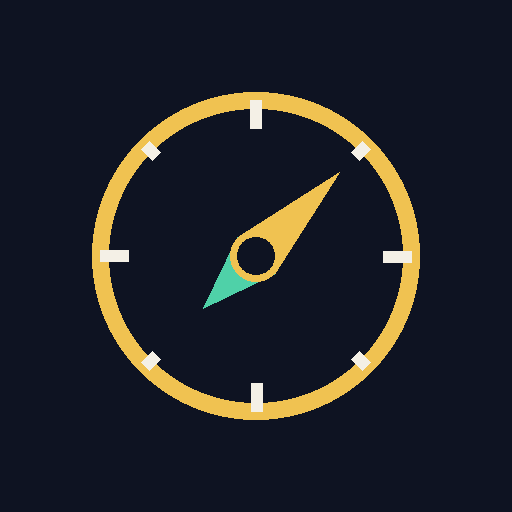
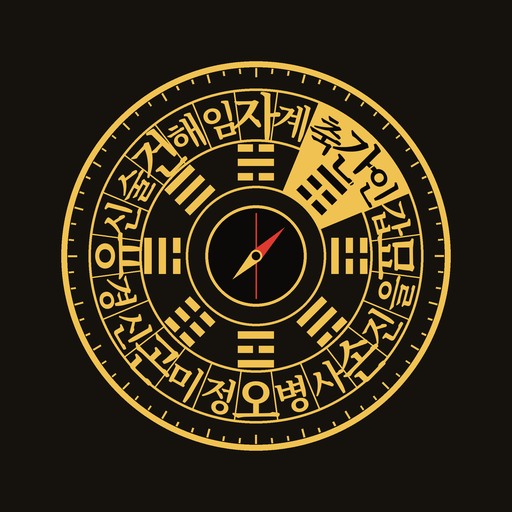
나침반과 아이콘을 황금 윤도 그림으로 교체
Claude-Session: https://claude.ai/code/session_014bLc2cbGEDwUu7Vj8snKjz

Changed region(s): [[0.0938, 0.0938, 0.9062, 0.9062]]

diff --git a/index.html b/index.html
@@ -88,7 +88,7 @@ details summary{cursor:pointer;font-weight:700;color:var(--gold);padding:6px 0}
 .why{display:grid;gap:8px}
 .why div{font-size:.98rem;padding:10px 12px;border-radius:10px;background:var(--panel2);border-left:5px solid var(--line)}
 .why div.g{border-left-color:var(--good)} .why div.b{border-left-color:var(--bad)}
-.compass svg{width:100%;max-width:340px;height:auto;display:block;margin:0 auto}
+.compass svg{width:100%;max-width:360px;height:auto;display:block;margin:0 auto}
 .card{background:var(--panel2);border-radius:12px;padding:14px;display:grid;grid-template-columns:40px 1fr;gap:12px;align-items:start}
 .card .ic{font-size:1.8rem;line-height:1}
 .card p{font-size:.98rem}
@@ -154,7 +154,7 @@ details summary{cursor:pointer;font-weight:700;color:var(--gold);padding:6px 0}
 <section class="view" id="v-day" hidden>
   <div class="bar"><button class="back" id="toWeek">‹ 주간 목록으로</button></div>
   <div class="hero" id="dayHero"></div>
-  <div class="panel"><h2>이날 어느 쪽으로 가면 좋은가</h2><div class="compass"><svg id="compassSvg" viewBox="0 0 320 320" role="img" aria-label="재물 방위 나침반"></svg></div><div class="grid" id="legend" style="margin-top:12px"></div></div>
+  <div class="panel"><h2>이날 어느 쪽으로 가면 좋은가</h2><div class="compass"><svg id="compassSvg" viewBox="0 0 340 340" role="img" aria-label="재물 방위 나침반"></svg></div><div class="grid" id="legend" style="margin-top:12px"></div></div>
   <div class="panel"><h2 id="whyTitle">이날 할 일과 피할 일</h2><div class="grid" id="todo"></div></div>
   <div class="panel"><h2>이날 재물운이 이렇게 나온 이유</h2><div class="why" id="dayWhy"></div></div>
   <button class="copy" id="copyBtn" style="margin-top:14px">이날 정보 복사하기</button>
@@ -179,6 +179,7 @@ const JAESIN={0:'동북',1:'동북',2:'서남',3:'서남',4:'북',5:'북',6:'동
 const HUISIN={0:'동북',5:'동북',1:'서북',6:'서북',2:'서남',7:'서남',3:'남',8:'남',4:'동남',9:'동남'};
 const EL_DIR=['동','남','중앙','서','북'];
 const DIR_ANG={'북':0,'동북':45,'동':90,'동남':135,'남':180,'서남':225,'서':270,'서북':315};
+const DIR_YUN={'북':'자(子)','동북':'간(艮)','동':'묘(卯)','동남':'손(巽)','남':'오(午)','서남':'곤(坤)','서':'유(酉)','서북':'건(乾)'};
 const WD='일월화수목금토';
 
 // ===== 천문 =====
@@ -304,9 +305,9 @@ function renderDay(){
   const fixed=EL_DIR[me.jaeEl], jaesin=JAESIN[x.s], huisin=HUISIN[x.s];
   drawCompass(fixed,jaesin,huisin,x);
   $('legend').innerHTML=[
-    ['📍','방향은 집이나 사무실처럼 그날 출발하는 곳을 기준으로 봅니다',`휴대폰 나침반 앱을 켜고 아래 각도를 맞추면 됩니다. 북 0°, 동 90°, 남 180°, 서 270°.`],
-    ['🟡',`돈 일은 ${jaesin}쪽(${DEG[jaesin]})에 있는 곳에서 봅니다`,`출발하는 곳에서 ${jaesin}쪽에 있는 은행·거래처·계약 장소를 고릅니다. 그쪽에 없으면 집에서 ${jaesin}쪽을 보고 앉아 처리해도 됩니다.`],
-    ['🟠',`사람은 ${huisin}쪽(${DEG[huisin]})에서 만납니다`,`미팅·면접·소개 약속 장소를 출발하는 곳에서 ${huisin}쪽으로 잡습니다.`],
+    ['📍','방향은 집이나 사무실처럼 그날 출발하는 곳을 기준으로 봅니다',`위 그림은 전통 나침반 윤도(輪圖)입니다. 금색으로 칠한 칸이 이날 돈 일 보는 쪽, 주황 점이 사람 만나는 쪽, 초록 테두리가 나에게 늘 유리한 쪽입니다. 휴대폰 나침반 앱을 켜고 각도를 맞추면 됩니다. 북 0°, 동 90°, 남 180°, 서 270°.`],
+    ['🟡',`돈 일은 ${jaesin}쪽(윤도 ${DIR_YUN[jaesin]}, ${DEG[jaesin]})에 있는 곳에서 봅니다`,`출발하는 곳에서 ${jaesin}쪽에 있는 은행·거래처·계약 장소를 고릅니다. 그쪽에 없으면 집에서 ${jaesin}쪽을 보고 앉아 처리해도 됩니다.`],
+    ['🟠',`사람은 ${huisin}쪽(윤도 ${DIR_YUN[huisin]}, ${DEG[huisin]})에서 만납니다`,`미팅·면접·소개 약속 장소를 출발하는 곳에서 ${huisin}쪽으로 잡습니다.`],
     ['🟢',`나에게 늘 유리한 쪽은 ${fixed}${fixed==='중앙'?'':'('+DEG[fixed]+')'}입니다`,fixed==='중앙'?'방 한가운데나 건물 중심 자리가 나에게 맞습니다. 날짜와 상관없습니다.':`날짜와 상관없이 고정입니다. 책상이 ${fixed}쪽을 보게 두거나, 사무실·투자 지역을 고를 때 ${fixed}쪽을 고릅니다.`],
     [jaesin===fixed?'⭐':'↔',jaesin===fixed?'이날은 돈 일 보는 쪽과 늘 유리한 쪽이 같습니다':'이날 돈 일 보는 쪽과 늘 유리한 쪽이 다릅니다',jaesin===fixed?'한 방향만 챙기면 되는 가장 좋은 날입니다.':`이날 하루 일(은행·계약)은 ${jaesin}쪽, 오래 가는 선택(자리·지역)은 ${fixed}쪽을 따릅니다.`],
   ].map(([ic,t,p])=>`<div class="card"><div class="ic">${ic}</div><div><h3>${t}</h3><p>${p}</p></div></div>`).join('');
@@ -314,16 +315,47 @@ function renderDay(){
   $('dayWhy').innerHTML=x.reasons.length?x.reasons.map(r=>`<div class="${r.w>0?'g':'b'}">${r.txt} <b>(${r.w>0?'+':''}${Math.round(r.w*10)/10})</b></div>`).join(''):'<div>이날은 내 사주와 특별히 맞물리는 것이 없어 재물운이 평범합니다.</div>';
 }
 function drawCompass(fixed,jaesin,huisin,x){
-  const cx=160,cy=160,R=130; const pt=(a,r)=>{const t=(a-90)*Math.PI/180;return [cx+r*Math.cos(t),cy+r*Math.sin(t)];};
-  let s=`<circle cx="${cx}" cy="${cy}" r="${R}" fill="var(--panel2)" stroke="var(--line)" stroke-width="2"/><circle cx="${cx}" cy="${cy}" r="${R-36}" fill="none" stroke="var(--line)"/>`;
-  Object.keys(DIR_ANG).forEach(d=>{const a=DIR_ANG[d]; const isJ=d===jaesin, isF=d===fixed, isH=d===huisin;
-    if(isJ||isF){const [ax,ay]=pt(a-20,R-6),[bx,by]=pt(a+20,R-6); s+=`<path d="M${cx},${cy} L${ax},${ay} A${R-6},${R-6} 0 0 1 ${bx},${by} Z" fill="${isJ?'var(--gold)':'var(--good)'}" opacity="${isJ?.95:.55}"/>`;}
-    const [x1,y1]=pt(a,R-36),[x2,y2]=pt(a,R); s+=`<line x1="${x1}" y1="${y1}" x2="${x2}" y2="${y2}" stroke="var(--fg)" stroke-width="${a%90===0?2.5:1}" opacity=".8"/>`;
-    const [lx,ly]=pt(a,R-20); s+=`<text x="${lx}" y="${ly+6}" text-anchor="middle" font-size="${a%90===0?18:14}" font-weight="800" fill="${isJ?'var(--gold-ink)':'var(--fg)'}" font-family="var(--display)">${d}</text>`;
-    if(isH){const [hx,hy]=pt(a,R-56); s+=`<circle cx="${hx}" cy="${hy}" r="8" fill="var(--warn)"/>`;}
-  });
-  if(fixed==='중앙') s+=`<circle cx="${cx}" cy="${cy}" r="34" fill="var(--good)" opacity=".55"/>`;
-  s+=`<text x="${cx}" y="${cy-4}" text-anchor="middle" font-size="15" font-weight="700" fill="var(--fg)">돈 일 ${jaesin}</text><text x="${cx}" y="${cy+16}" text-anchor="middle" font-size="12" fill="var(--muted)">${fmt(x.J).slice(5)}</text>`;
+  // 황금 윤도: 검은 옻칠 원판 위에 금색 동심원. 안쪽부터 팔괘 → 24방위 → 24절기 → 72분금 눈금.
+  const cx=170,cy=170; const pt=(a,r)=>{const t=(a-90)*Math.PI/180;return [cx+r*Math.cos(t),cy+r*Math.sin(t)];};
+  const sector=(a0,a1,r0,r1)=>{const [ax,ay]=pt(a0,r1),[bx,by]=pt(a1,r1),[cx1,cy1]=pt(a1,r0),[dx,dy]=pt(a0,r0);return `M${ax},${ay} A${r1},${r1} 0 0 1 ${bx},${by} L${cx1},${cy1} A${r0},${r0} 0 0 0 ${dx},${dy} Z`;};
+  const G='#f0c251', G2='#c9972e', INK='#0b0a08', LAC='#15120e', RED='#e0392f';
+  const D24=['자','계','축','간','인','갑','묘','을','진','손','사','병','오','정','미','곤','신','경','유','신','술','건','해','임'];
+  const JEOLGI=['동지','소한','대한','입춘','우수','경칩','춘분','청명','곡우','입하','소만','망종','하지','소서','대서','입추','처서','백로','추분','한로','상강','입동','소설','대설'];
+  const GUA=[[0,1,0],[1,0,0],[0,0,1],[0,1,1],[1,0,1],[0,0,0],[1,1,0],[1,1,1]]; // 감 간 진 손 리 곤 태 건 (후천팔괘, 북부터 시계방향) 1=양(한 줄) 0=음(끊긴 줄)
+  const R=166, rJeol=[126,150], r24=[88,124], rGua=[52,86], rWell=38;
+  let s=`<defs><radialGradient id="lac" cx="40%" cy="35%" r="80%"><stop offset="0" stop-color="#2a241c"/><stop offset="1" stop-color="${LAC}"/></radialGradient>
+    <linearGradient id="gold" x1="0" y1="0" x2="1" y2="1"><stop offset="0" stop-color="#fff0b8"/><stop offset=".5" stop-color="${G}"/><stop offset="1" stop-color="${G2}"/></linearGradient></defs>`;
+  s+=`<circle cx="${cx}" cy="${cy}" r="${R}" fill="url(#gold)"/><circle cx="${cx}" cy="${cy}" r="${R-5}" fill="url(#lac)" stroke="${G}" stroke-width="1"/>`;
+  // 72분금 눈금
+  for(let i=0;i<72;i++){const a=i*5; const [x1,y1]=pt(a,R-6),[x2,y2]=pt(a,i%3===0?R-14:R-10); s+=`<line x1="${x1}" y1="${y1}" x2="${x2}" y2="${y2}" stroke="${G}" stroke-width="${i%3===0?1.6:0.8}"/>`;}
+  // 강조 쐐기 (24방위 고리 + 절기 고리 걸쳐서)
+  const aJ=DIR_ANG[jaesin]; s+=`<path d="${sector(aJ-22.5,aJ+22.5,rGua[0],rJeol[1])}" fill="${G}" opacity=".95"/>`;
+  if(fixed!=='중앙'&&fixed!==jaesin){const aF=DIR_ANG[fixed]; s+=`<path d="${sector(aF-22.5,aF+22.5,rGua[0],rJeol[1])}" fill="none" stroke="#4fd1a8" stroke-width="3"/>`;}
+  if(fixed==='중앙') s+=`<circle cx="${cx}" cy="${cy}" r="${rGua[0]-2}" fill="none" stroke="#4fd1a8" stroke-width="3"/>`;
+  // 고리 선
+  [rJeol[1],rJeol[0],r24[0],rGua[0]].forEach(r=>s+=`<circle cx="${cx}" cy="${cy}" r="${r}" fill="none" stroke="${G}" stroke-width="1.2"/>`);
+  // 24절기 고리
+  for(let i=0;i<24;i++){const a=i*15; const [x1,y1]=pt(a-7.5,rJeol[0]),[x2,y2]=pt(a-7.5,rJeol[1]); s+=`<line x1="${x1}" y1="${y1}" x2="${x2}" y2="${y2}" stroke="${G}" stroke-width=".7"/>`;
+    const inJ=Math.abs(((a-aJ)%360+540)%360-180)<=22.5; const [tx,ty]=pt(a,(rJeol[0]+rJeol[1])/2);
+    s+=`<text x="${tx}" y="${ty}" transform="rotate(${a>90&&a<270?a+180:a} ${tx} ${ty})" text-anchor="middle" dominant-baseline="central" font-size="9" font-weight="700" fill="${inJ?INK:G}" font-family="var(--display)">${JEOLGI[i]}</text>`;}
+  // 24방위 고리
+  for(let i=0;i<24;i++){const a=i*15; const [x1,y1]=pt(a-7.5,r24[0]),[x2,y2]=pt(a-7.5,r24[1]); s+=`<line x1="${x1}" y1="${y1}" x2="${x2}" y2="${y2}" stroke="${G}" stroke-width=".9"/>`;
+    const inJ=Math.abs(((a-aJ)%360+540)%360-180)<=22.5; const main=a%45===0; const [tx,ty]=pt(a,(r24[0]+r24[1])/2);
+    s+=`<text x="${tx}" y="${ty}" transform="rotate(${a>90&&a<270?a+180:a} ${tx} ${ty})" text-anchor="middle" dominant-baseline="central" font-size="${main?17:12}" font-weight="800" fill="${inJ?INK:(main?'#fff0b8':G)}" font-family="var(--display)">${D24[i]}</text>`;}
+  // 팔괘 고리 (3줄 막대)
+  for(let i=0;i<8;i++){const a=i*45; const inJ=a===aJ; const col=inJ?INK:G; const [gx,gy]=pt(a,(rGua[0]+rGua[1])/2);
+    GUA[i].forEach((yang,k)=>{const off=(k-1)*6; const w=14,h=3; // k=0 바깥(위), k=2 안쪽
+      if(yang) s+=`<rect x="${-w/2}" y="${off-h/2}" width="${w}" height="${h}" fill="${col}" transform="translate(${gx} ${gy}) rotate(${a})"/>`;
+      else { s+=`<rect x="${-w/2}" y="${off-h/2}" width="${w/2-1.5}" height="${h}" fill="${col}" transform="translate(${gx} ${gy}) rotate(${a})"/><rect x="${1.5}" y="${off-h/2}" width="${w/2-1.5}" height="${h}" fill="${col}" transform="translate(${gx} ${gy}) rotate(${a})"/>`; }});
+    const [x1,y1]=pt(a-22.5,rGua[0]),[x2,y2]=pt(a-22.5,rGua[1]); s+=`<line x1="${x1}" y1="${y1}" x2="${x2}" y2="${y2}" stroke="${G}" stroke-width=".7"/>`;}
+  // 희신방 표시(주황 점, 절기 고리 바깥)
+  {const aH=DIR_ANG[huisin]; const [hx,hy]=pt(aH,R-10); s+=`<circle cx="${hx}" cy="${hy}" r="6" fill="#ffb454" stroke="${INK}" stroke-width="1"/>`;}
+  // 중앙 우물과 자침
+  s+=`<circle cx="${cx}" cy="${cy}" r="${rWell}" fill="${INK}" stroke="${G}" stroke-width="2"/>`;
+  {const [nx,ny]=pt(0,rWell-6),[sx,sy]=pt(180,rWell-6); s+=`<line x1="${nx}" y1="${ny}" x2="${sx}" y2="${sy}" stroke="${RED}" stroke-width="1"/>`;}
+  {const [tx,ty]=pt(aJ,rWell-7),[bx,by]=pt(aJ+180,rWell-12),[lx,ly]=pt(aJ+90,4),[rx,ry]=pt(aJ-90,4);
+    s+=`<polygon points="${tx},${ty} ${lx},${ly} ${bx},${by} ${rx},${ry}" fill="url(#gold)"/><polygon points="${tx},${ty} ${lx},${ly} ${cx},${cy} ${rx},${ry}" fill="${RED}" opacity=".9"/>`;}
+  s+=`<circle cx="${cx}" cy="${cy}" r="3.5" fill="${INK}" stroke="${G}" stroke-width="1.2"/>`;
   $('compassSvg').innerHTML=s;
 }
 

diff --git a/sw.js b/sw.js
@@ -1,4 +1,4 @@
-const CACHE='jaemul-v1';
+const CACHE='jaemul-v2';
 const ASSETS=['./','./index.html','./manifest.webmanifest','./icons/icon-192.png','./icons/icon-512.png','./icons/icon-180.png'];
 self.addEventListener('install',e=>{e.waitUntil(caches.open(CACHE).then(c=>c.addAll(ASSETS)).then(()=>self.skipWaiting()));});
 self.addEventListener('activate',e=>{e.waitUntil(caches.keys().then(ks=>Promise.all(ks.filter(k=>k!==CACHE).map(k=>caches.delete(k)))).then(()=>self.clients.claim()));});
